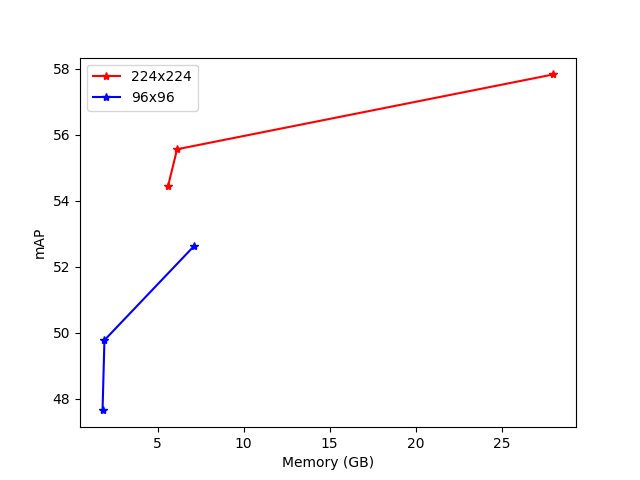
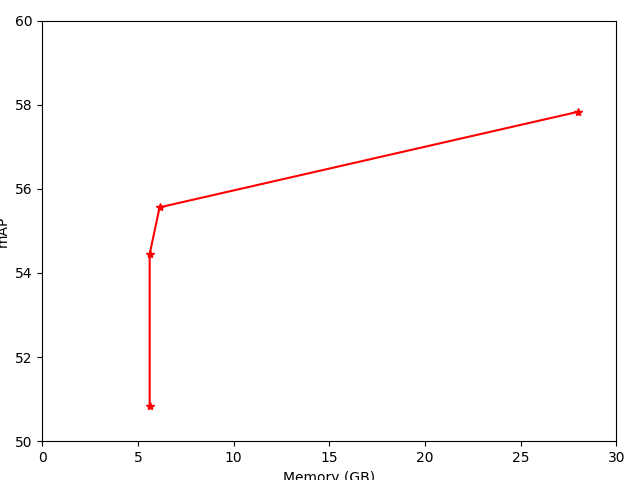
f

diff --git a/plot.py b/plot.py
@@ -1,15 +1,17 @@
 import matplotlib.pyplot as plt
 
-x = [5.61, 6.13, 28.0]
-y = [54.45, 55.56, 57.83]
+x = [5.61, 5.61, 6.13, 28.0]
+y = [50.83, 54.45, 55.56, 57.83]
 plt.plot(x, y, "r*-", label="224x224")
-x = [1.80, 1.91, 7.11]
-y = [47.64, 49.77, 52.62]
-plt.plot(x, y, "b*-", label="96x96")
-
+plt.ylim(50, 60)
+plt.xlim(0, 30)
+# x = [1.80, 1.80, 1.91, 7.11]
+# y = [42.94, 47.64, 49.77, 52.62]
+# plt.plot(x, y, "b*-", label="96x96")
+# plt.tight_layout()
 plt.xlabel("Memory (GB)")
 plt.ylabel("mAP")
-plt.legend(loc="best")
+# plt.legend(loc="best")
 
 plt.savefig("plot.png")
 plt.close()
